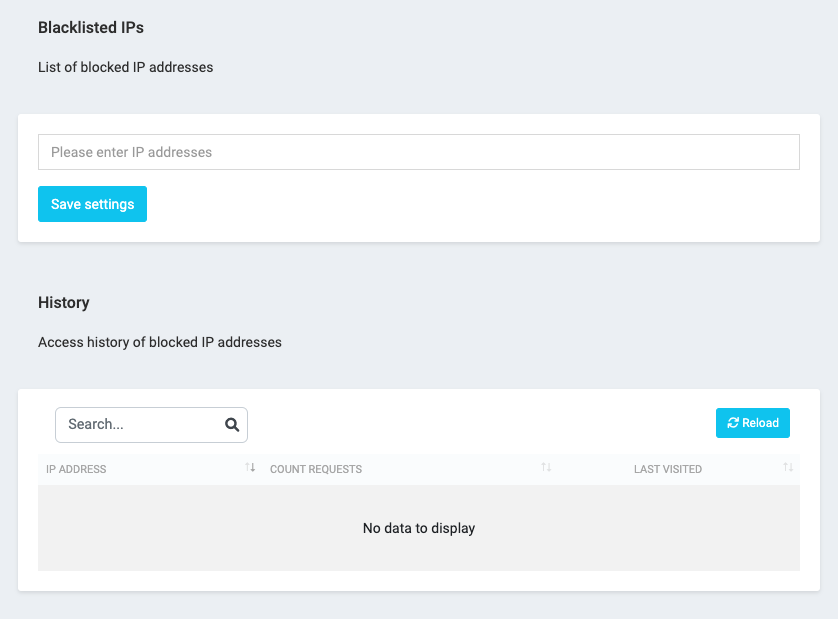
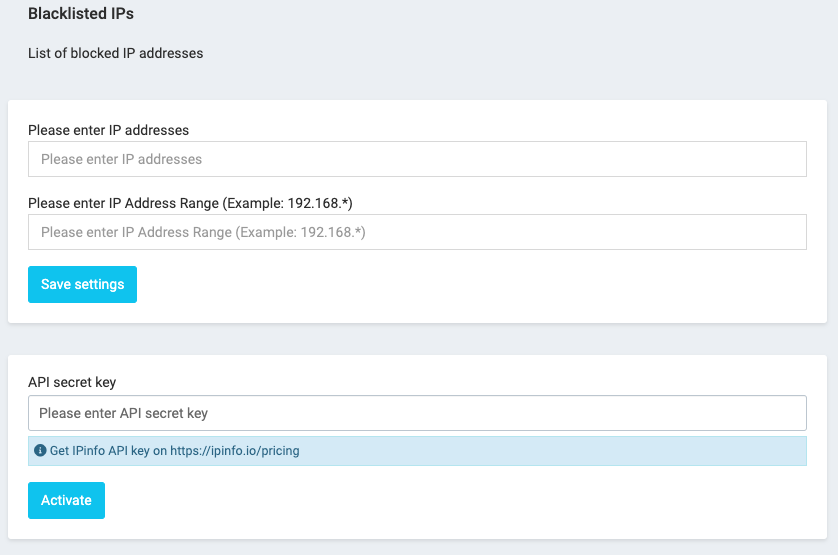
update

diff --git a/src/Http/Middleware/IpBlockerMiddleware.php b/src/Http/Middleware/IpBlockerMiddleware.php
@@ -12,27 +12,47 @@ use Session;
 
 class IpBlockerMiddleware
 {
-    protected function getIps(): array
+    protected function getSettings(): array
     {
-        return json_decode(setting('ip_blocker_addresses'), true);
+        return [
+            'ip' => setting('ip_blocker_addresses'),
+            'ip_range' => setting('ip_blocker_addresses_range'),
+            'allowed_countries' => setting('ip_blocker_available_countries'),
+            'secret_key' => setting('ip_blocker_secret_key'),
+        ];
     }
 
-    protected function getIpsRange(): array
+    protected function checkIpsRange(): bool
     {
-        return json_decode(setting('ip_blocker_addresses_range'), true);
-    }
+        $ipRange = $this->getSettings()['ip_range'];
 
-    protected function getIpsByCountryCode(): array
-    {
-        return json_decode(setting('ip_blocker_available_countries'), true);
-    }
+        if (! $ipRange) {
+            return true;
+        }
 
-    protected function checkIpRange(): bool
-    {
-        $clientIp = request()->getClientIp();
+        $ipRange = json_decode($ipRange, true);
 
-        foreach ($this->getIpsRange() as $ip) {
-            if (str_starts_with($clientIp, trim($ip, '*'))) {
+        if (! $ipRange) {
+            return true;
+        }
+
+        $data = $this->callAPI();
+
+        if (! $data) {
+            return true;
+        }
+
+        $clientIp = $data['ip'];
+
+        $explodeClientIp = explode('.', $clientIp);
+
+        $formatClientIp = implode('.', [
+            $explodeClientIp[0],
+            $explodeClientIp[1],
+        ]);
+
+        foreach ($ipRange as $ip) {
+            if (str_starts_with($formatClientIp, substr($ip, 0, -2))) {
                 return false;
             }
         }
@@ -44,37 +64,37 @@ class IpBlockerMiddleware
     {
         $systemCountriesCode = array_keys(Helper::countries());
 
-        $countriesCode = $this->getIpsByCountryCode();
+        $allowedCountries = $this->getSettings()['allowed_countries'];
 
-        if (empty($countriesCode) || empty(array_diff($systemCountriesCode, $countriesCode))) {
+        if (! $allowedCountries) {
             return true;
         }
 
-        $secretKey = setting('ip_blocker_secret_key');
+        $allowedCountries = json_decode($allowedCountries, true);
 
-        if (! $secretKey) {
+        if (! $allowedCountries) {
             return true;
         }
 
-        $clientIp = Helper::getIpFromThirdParty();
+        if (empty(array_diff($systemCountriesCode, $allowedCountries))) {
+            return true;
+        }
 
-        $sessionKey = 'check_response_' . md5($clientIp);
+        $sessionKey = 'ip_blocker_response_cache_' . md5(json_encode($this->getSettings()));
 
         if (Session::has($sessionKey)) {
-            return Session::get($sessionKey);
+             return Session::get($sessionKey);
         }
 
-        $response = Http::get("https://ipinfo.io/$clientIp/country?token=$secretKey");
+        $response = $this->callAPI();
 
-        if ($response->failed()) {
+        if (! $response) {
             Session::put($sessionKey, true);
 
             return true;
         }
 
-        $responseCountryCode = trim($response->body());
-
-        $isBlocked = in_array($responseCountryCode, $countriesCode, true);
+        $isBlocked = in_array($response['country'], $allowedCountries, true);
 
         Session::put($sessionKey, $isBlocked);
 
@@ -87,9 +107,11 @@ class IpBlockerMiddleware
             return $next($request);
         }
 
+        $response = $this->callAPI();
+
         if (
-            in_array($request->getClientIp(), $this->getIps()) ||
-            $this->checkIpRange() === false ||
+            (! $response || in_array($response['ip'], json_decode($this->getSettings()['ip'], true))) ||
+            $this->checkIpsRange() === false ||
             $this->checkIpsByCountryCode() === false
         ) {
             History::query()->updateOrCreate([
@@ -103,5 +125,32 @@ class IpBlockerMiddleware
         }
 
         return $next($request);
+    }
+
+    protected function callAPI(): array
+    {
+        $secretKey = $this->getSettings()['secret_key'];
+
+        if (! $secretKey) {
+            return [];
+        }
+
+        $cacheKey = 'ip_blocker_cache_responses_' . md5(json_encode($this->getSettings()));
+
+        if (Session::has($cacheKey) && $data = Session::get($cacheKey)) {
+            return $data;
+        }
+
+        $response = Http::withoutVerifying()->asJson()->get("https://ipinfo.io?token=$secretKey");
+
+        if ($response->failed()) {
+            return [];
+        }
+
+        $data = $response->json();
+
+        Session::put($cacheKey, $data);
+
+        return $data;
     }
 }

diff --git a/src/Http/Controllers/IpBlockerController.php b/src/Http/Controllers/IpBlockerController.php
@@ -13,6 +13,7 @@ use Botble\Base\Facades\Assets;
 use Botble\Base\Facades\PageTitle;
 use Botble\Base\Http\Controllers\BaseController;
 use Botble\Base\Http\Responses\BaseHttpResponse;
+use Botble\Base\Supports\Helper;
 use Botble\Base\Traits\HasDeleteManyItemsTrait;
 use Botble\Ecommerce\Facades\EcommerceHelper;
 use Exception;
@@ -59,29 +60,29 @@ class IpBlockerController extends BaseController
 
     public function updateSettings(UpdateSettingsRequest $request, BaseHttpResponse $response)
     {
-        $data = $request->input('ip_addresses');
+        $ips = $request->input('ip_addresses');
 
-        $localIp = $request->ip();
+        $clientIp = $request->ip();
 
-        foreach ($data as $key => $value) {
-            if ($value['value'] === $localIp) {
-                unset($data[$key]);
+        foreach ($ips as $key => $value) {
+            if ($value['value'] === $clientIp) {
+                unset($ips[$key]);
             }
         }
 
-        setting()->set('ip_blocker_addresses', json_encode(collect($data)->pluck('value')))->save();
+        setting()->set('ip_blocker_addresses', json_encode(collect($ips)->pluck('value')))->save();
 
         $ipsRange = $request->input('ip_addresses_range');
 
-        $localIpsRange = explode('.', $localIp);
+        $explodeLocalIpsRange = explode('.', $clientIp);
 
         $formatLocalIpsRange = implode('.', [
-            $localIpsRange[0],
-            $localIpsRange[1],
+            $explodeLocalIpsRange[0],
+            $explodeLocalIpsRange[1],
         ]);
 
         foreach ($ipsRange as $key => $value) {
-            if (str_starts_with(trim($value['value'], '*'), $formatLocalIpsRange)) {
+            if (str_starts_with(substr($value['value'], 0, -2), $formatLocalIpsRange)) {
                 unset($ipsRange[$key]);
             }
         }
@@ -101,7 +102,6 @@ class IpBlockerController extends BaseController
 
         if ($data->ok()) {
             setting()->set('ip_blocker_secret_key', $secretKey)->save();
-            setting()->set('ip_blocker_available_countries', '[]')->save();
 
             return $response
                 ->setNextUrl(route('ip-blocker.settings'))

diff --git a/routes/web.php b/routes/web.php
@@ -13,31 +13,31 @@ Route::group(['namespace' => 'ArchiElite\IpBlocker\Http\Controllers', 'middlewar
                 'uses' => 'IpBlockerController@settings',
             ]);
 
-            Route::post('/update', [
+            Route::post('update', [
                 'as' => 'ip-blocker.settings.update',
                 'uses' => 'IpBlockerController@updateSettings',
                 'permission' => 'ip-blocker.settings',
             ]);
 
-            Route::delete('/deletes', [
+            Route::delete('deletes', [
                 'as' => 'ip-blocker.deletes',
                 'uses' => 'IpBlockerController@deletes',
                 'permission' => 'ip-blocker.destroy',
             ]);
 
-            Route::get('/empty', [
+            Route::get('empty', [
                 'as' => 'ip-blocker.empty',
                 'uses' => 'IpBlockerController@deleteAll',
                 'permission' => 'ip-blocker.destroy',
             ]);
 
-            Route::post('/check-secret-key', [
+            Route::post('check-secret-key', [
                 'as' => 'ip-blocker.settings.checkSecretKey',
                 'uses' => 'IpBlockerController@checkSecretKey',
                 'permission' => 'ip-blocker.settings',
             ]);
 
-            Route::post('/update-available-countries', [
+            Route::post('update-available-countries', [
                 'as' => 'ip-blocker.settings.availableCountries',
                 'uses' => 'IpBlockerController@availableCountries',
                 'permission' => 'ip-blocker.settings',

diff --git a/resources/lang/en/ip-blocker.php b/resources/lang/en/ip-blocker.php
@@ -24,5 +24,5 @@ return [
     'available_countries' => 'Allowed IP from countries',
     'all_countries' => 'Allowed all countries',
     'activate' => 'Activate',
-    'api_secret_key_helper' => 'Get IPinfo API key on :link'
+    'api_secret_key_helper' => 'Get IPinfo API key on :link',
 ];
